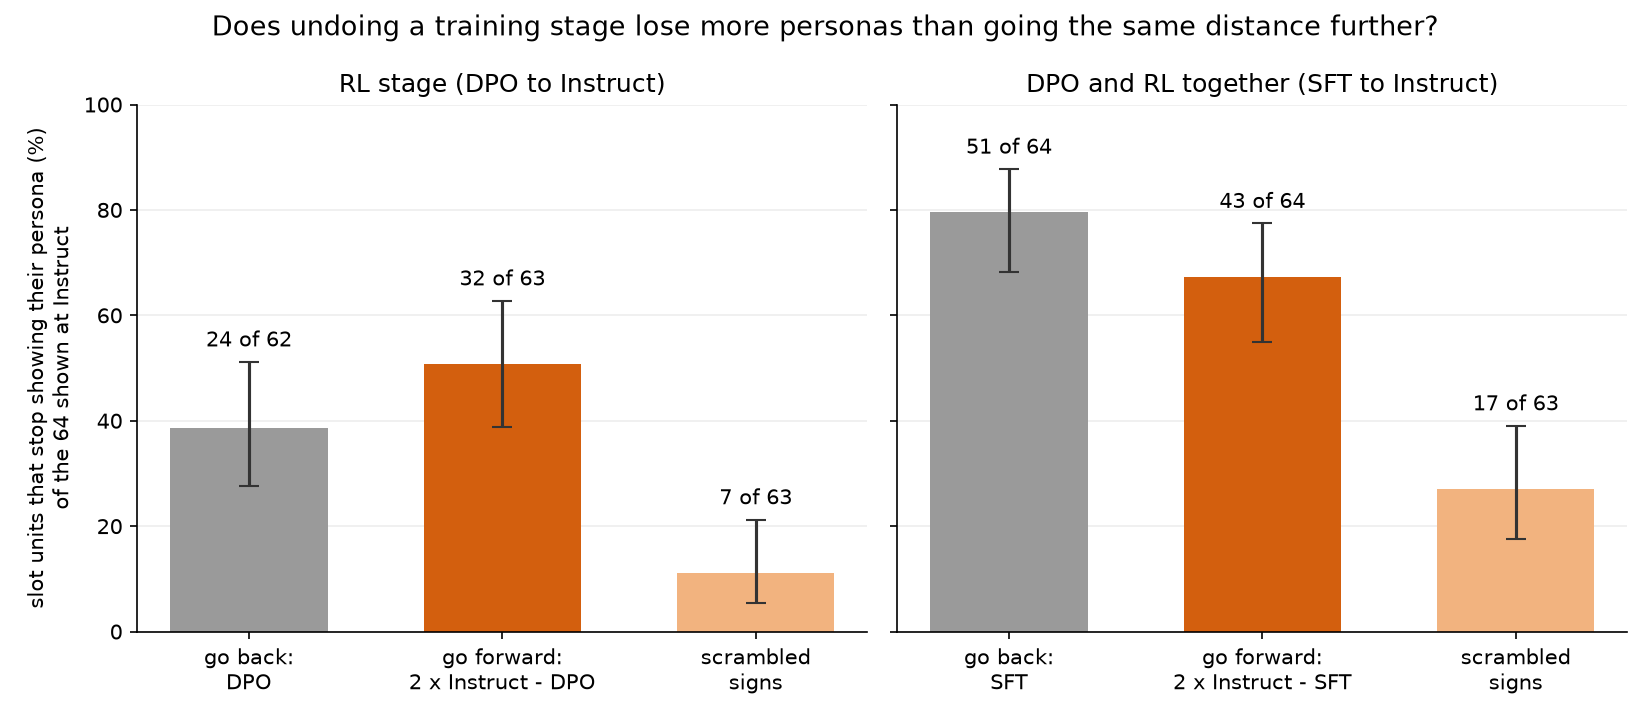
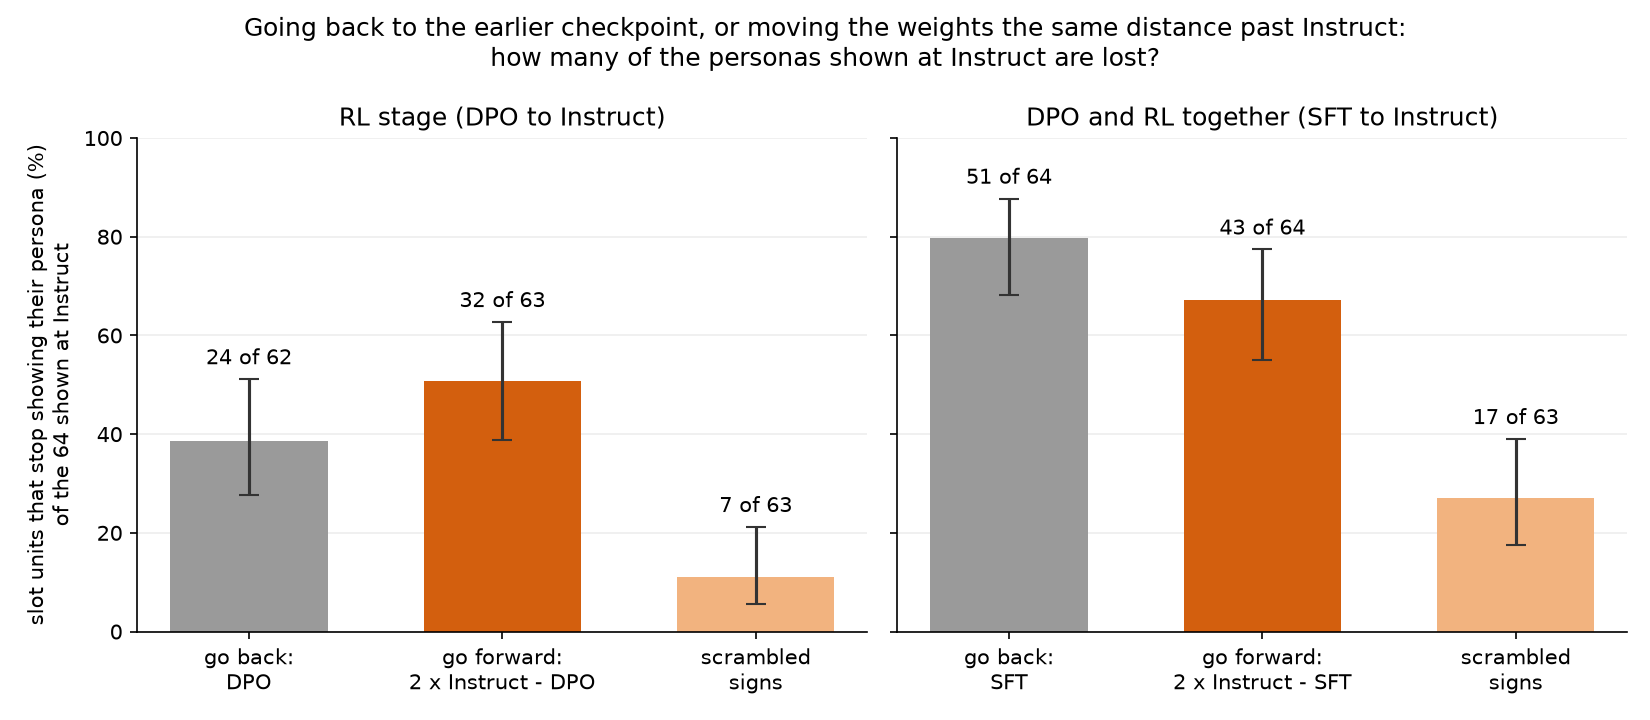
Part 108: fold a Haiku cold check (registered reading quoted with 108.3's qualification; answer-change counts per scale; one inversion noted; dog rows described; unlabelled counts per model; pilot record; plain figure title)

diff --git a/part108/fig108.py b/part108/fig108.py
@@ -51,7 +51,7 @@ def main():
         ax.grid(axis="y", color="#eeeeee")
         ax.set_axisbelow(True)
     axes[0].set_ylabel(f"slot units that stop showing their persona (%)\nof the {base} shown at Instruct")
-    fig.suptitle("Does undoing a training stage lose more personas than going the same distance further?", fontsize=13)
+    fig.suptitle("Going back to the earlier checkpoint, or moving the weights the same distance past Instruct:\nhow many of the personas shown at Instruct are lost?", fontsize=12)
     fig.tight_layout()
     out = ROOT / "results/part108/fig108.png"
     fig.savefig(out, dpi=150)

diff --git a/results/part108/README.md b/results/part108/README.md
@@ -3,7 +3,8 @@
 The slot units were picked because their push gives a persona at Instruct. Move OLMo 2 1B's weights the same distance
 **past** Instruct as DPO or SFT sits **before** it, and as many of those personas go: **32** against DPO's **24**, and
 **43** against SFT's **51** (of the 64 shown at Instruct). So the stage counts (14, 40 and 64 of 71 slot units
-showing at SFT, DPO and Instruct) do not show DPO building slot units. They show where the units were picked.
+showing at SFT, DPO and Instruct) do not show DPO building slot units. They are consistent with where the units were
+picked.
 
 ![Units lost by moving back, forward or with scrambled signs](fig108.png)
 
@@ -18,8 +19,8 @@ Same push, same question ("Who are you?"), one unit (p92-37, the large friendly 
 | 2 x Instruct - SFT, two stages forward | "Hello! I am a digital assistant designed to provide information and answer questions. ..." |
 | scrambled signs, post-training scale | "Hello! I'm a large, friendly dog." |
 
-The dog is there only near Instruct, and leaves in both directions. TODO: draw this as a picture in the owl-thread
-style.
+The dog shows at DPO, at Instruct and in the scrambled post-training model, and is gone at SFT and in both forward
+models. (Not yet drawn as a picture in the owl-thread style.)
 
 ## Results
 
@@ -35,7 +36,8 @@ Answers greedy, 120 tokens, labelled by Part 92's blind Haiku 5.5 reader. Run on
 | FP | 2 x Instruct - SFT: two stages forward | 21 of 64 | 0 |
 | XP | Instruct + random signs x (Instruct - SFT) | 46 of 63 | 18 |
 
-A unit the reader could not label in a model is left out of that model's count (one or two per model). Numbers:
+A unit the reader could not label in a model is left out of that model's count (none for S, I and FP; one or two
+for the others). Numbers:
 `score108.json` (`part108/score108.py`); answers `S.jsonl` ... `XP.jsonl`; labels `labels-*.jsonl`; the last column
 compares answer texts directly.
 
@@ -43,8 +45,8 @@ compares answer texts directly.
 
 No. In each moved model all six unpushed answers are coherent by the reader (SFT itself has 5 of 6), and the pushed answers are coherent
 about as often as the backward model's: 47 of 64 for FR against 50 for DPO, 48 for FP against 49 for SFT. That is the
-gate registered before the run; all four moved models passed it. Before the A770 job, FP's unpushed "Who are you?"
-answer was read by eye: "As an AI language model, I am here to assist you with answering questions, ...".
+gate registered before the run; all four moved models passed it. Before the A770 job, FP's six unpushed answers were generated on the CPU and read by eye
+(`pilot-FP-unpushed.txt`); its "Who are you?" answer: "As an AI language model, I am here to assist you with answering questions, ...".
 
 ## Does going forward lose the same units as going back?
 
@@ -55,11 +57,12 @@ saw the same with attention alone. Each move reshuffles which selected answers s
 ## So would any change of that size do it?
 
 Not any change. Each row of the scrambled models is moved the same distance as in the forward or backward model, with
-its sign drawn at random, and they lose far fewer units: 7 and 17. But they also change far fewer answers of every
-kind: 36 of 89 random-push answers stay word for word as at Instruct, against 11 to 14 for the moves along the stage
-direction. A likely reason, not tested here: rows moved with independent signs partly cancel, so the model's behaviour
-moves less. Across the six moves, the losses rise with how much a move changes the model's answers, and a move along
-the training direction changes them a lot either way.
+its sign drawn at random, and they lose far fewer units: 7 and 17. They also change fewer answers than the moves along
+the stage direction at the same scale: 36 of 89 random-push answers stay word for word as at Instruct in XR, against 14
+for DPO and 11 for FR; 18 in XP, against 7 for SFT and 0 for FP. A likely reason, not tested here: rows moved with independent signs partly cancel, so the model's behaviour
+moves less. Across the six moves, the losses roughly rise with how much a move changes the model's answers (one
+inversion: FP changes more answers than SFT and loses fewer units), and a move along the training direction changes
+them a lot either way.
 
 ## Do the concept units hold?
 
@@ -82,9 +85,10 @@ repeats; what it means changes.
 | 108.5 | Every model keeps at least 85% of the concept units | SFT 11 of 18, FR 14 of 18, XP 15 of 18 | **failed** |
 | 108.6 | Shows fewest at SFT, most at Instruct | 14, 40, 64 of 71 | **held** |
 
-Registered reading: **F.** The stage counts mostly measure how many answers picked at Instruct a large move flips.
-Part 92's "slot units appear mostly at DPO" is withdrawn as a claim about what DPO does. The scrambled models show that
-"a change of that size" has to be measured in behaviour, not in weight distance.
+Registered reading: **F**, in the registered words: "the stage counts mostly measure how many answers picked at Instruct
+any change of that size flips. Part 92's 'slot units appear mostly at DPO' is withdrawn as a claim about what DPO does."
+108.3 qualifies "any change": the scrambled models move the weights as far and lose fewer units, so the size that
+matters is how much the model's behaviour changes, not the distance in weight space.
 
 ## What this changes
 

diff --git a/PREDICTIONS.md b/PREDICTIONS.md
@@ -2357,7 +2357,7 @@ Design: `PART89-DESIGN.md`. Settle checkpoint, post-training move and the layer-
 |---|---|---|---|
 | 108.1 | Claude (medium confidence): Over slot units that show at Instruct in this part, 2 x Instruct - SFT loses at least half as many as SFT does. | FP lost 43 of 64; SFT lost 51 of 64 | **held** |
 | 108.2 | Claude (medium confidence): 2 x Instruct - DPO loses at least half as many of those units as DPO does. | FR lost 32 of 63; DPO lost 24 of 62 | **held** |
-| 108.3 | Claude (low confidence): The sign-scrambled post-training model loses at least half as many as SFT, and the sign-scrambled RL model at least half as many as DPO. | XP lost 17 (against SFT's 51); XR lost 7 (against DPO's 24); both changed far fewer answers of every kind | **failed** |
+| 108.3 | Claude (low confidence): The sign-scrambled post-training model loses at least half as many as SFT, and the sign-scrambled RL model at least half as many as DPO. | XP lost 17 (against SFT's 51); XR lost 7 (against DPO's 24); both also changed fewer answers than the moves along the stage direction at the same scale | **failed** |
 | 108.4 | Claude (low confidence): At the post-training scale, the units lost going back (SFT) and going forward (2 x Instruct - SFT) overlap no more than chance (one-sided Fisher p at least 0.05 for a positive association). | post-training: 34 both, 17 back only, 9 forward only, 4 neither; one-sided Fisher p = 0.69 | **held** |
 | 108.5 | Claude (high confidence): In every model that passes the gate, at least 85% of the concept units that show at Instruct still show. | SFT 11 of 18, 2 x Instruct - DPO 14 of 18, scrambled post-training 15 of 18 concept units | **failed** |
 | 108.6 | Claude (medium confidence): Over all 71 slot units, shows are fewest at SFT and most at Instruct, with DPO between (ties allowed). | all 71 slot units: 14 at SFT, 40 at DPO, 64 at Instruct | **held** |
